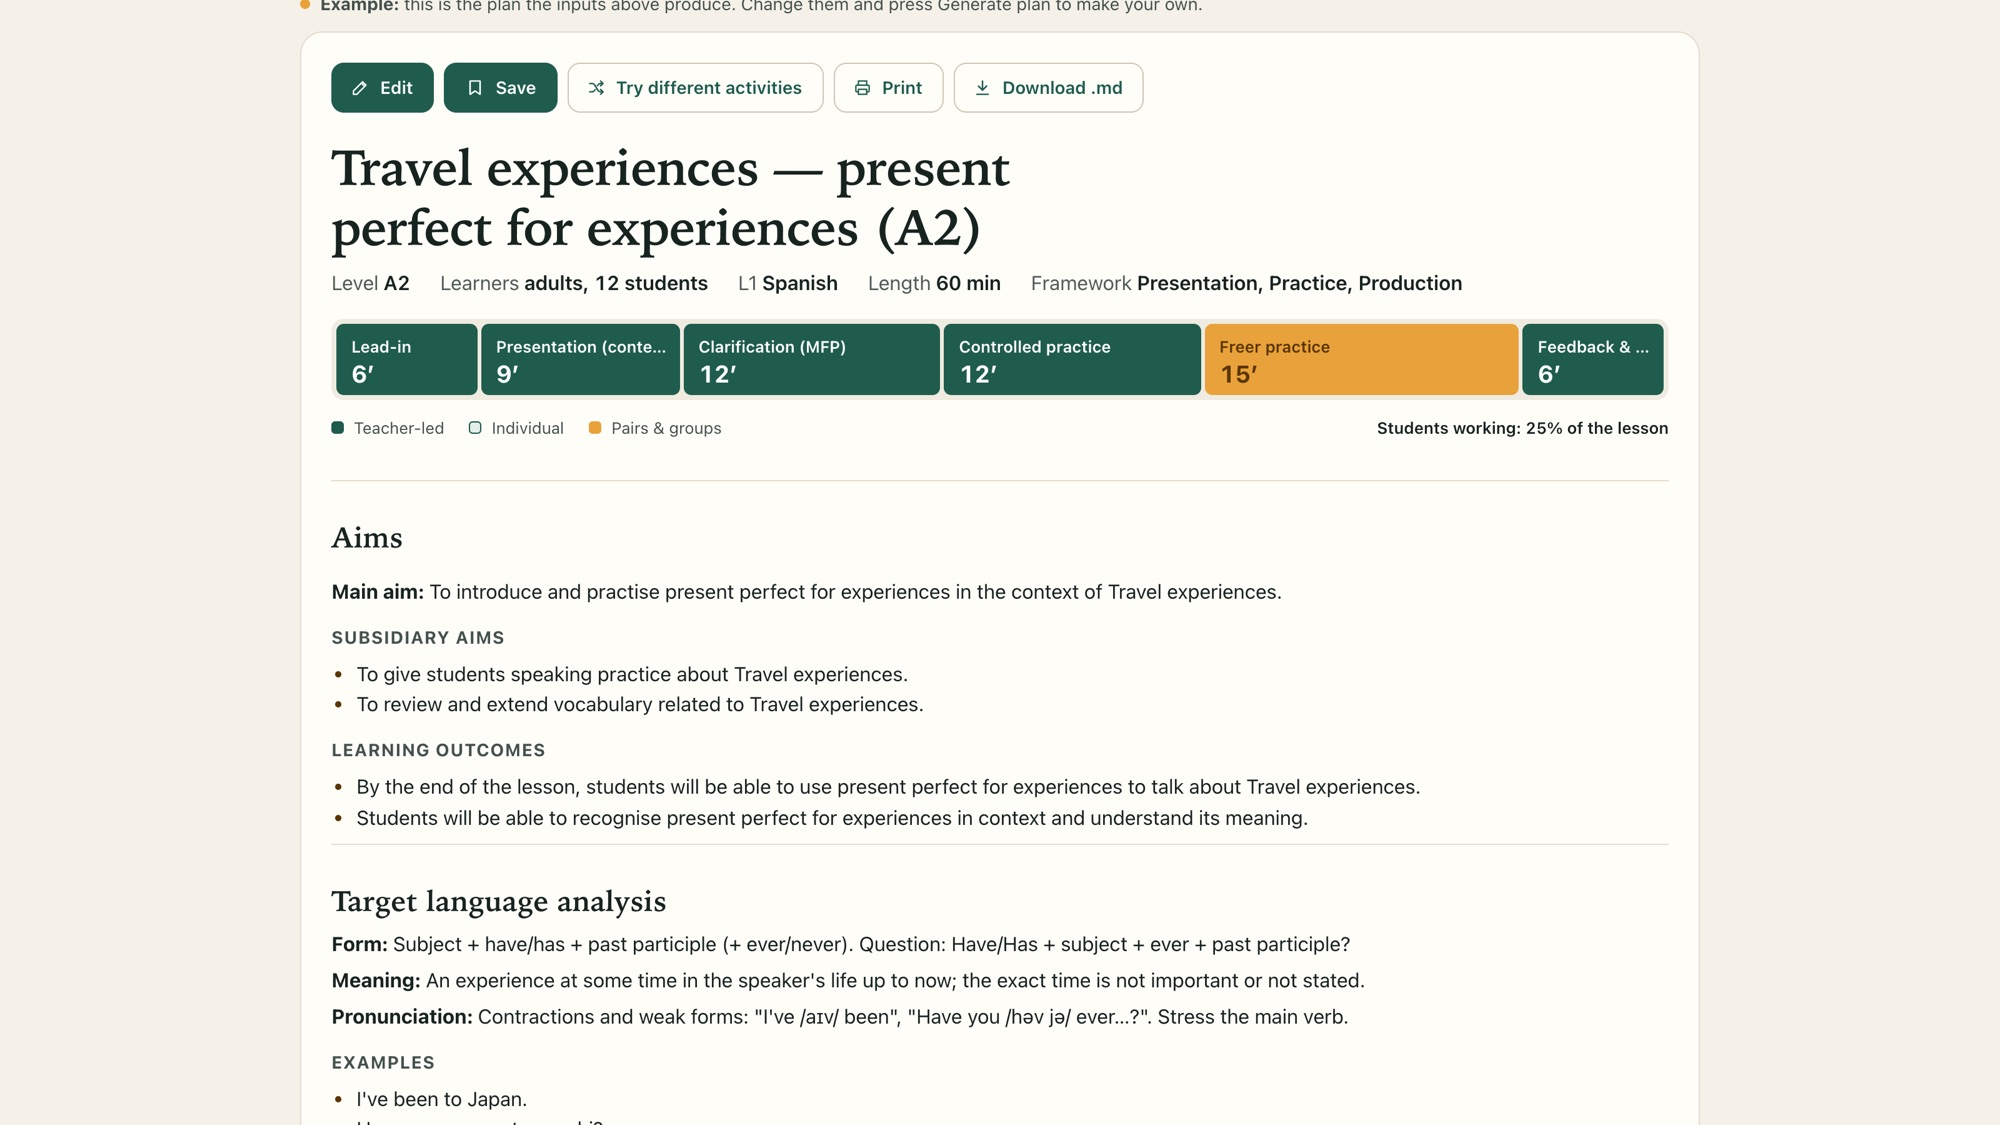
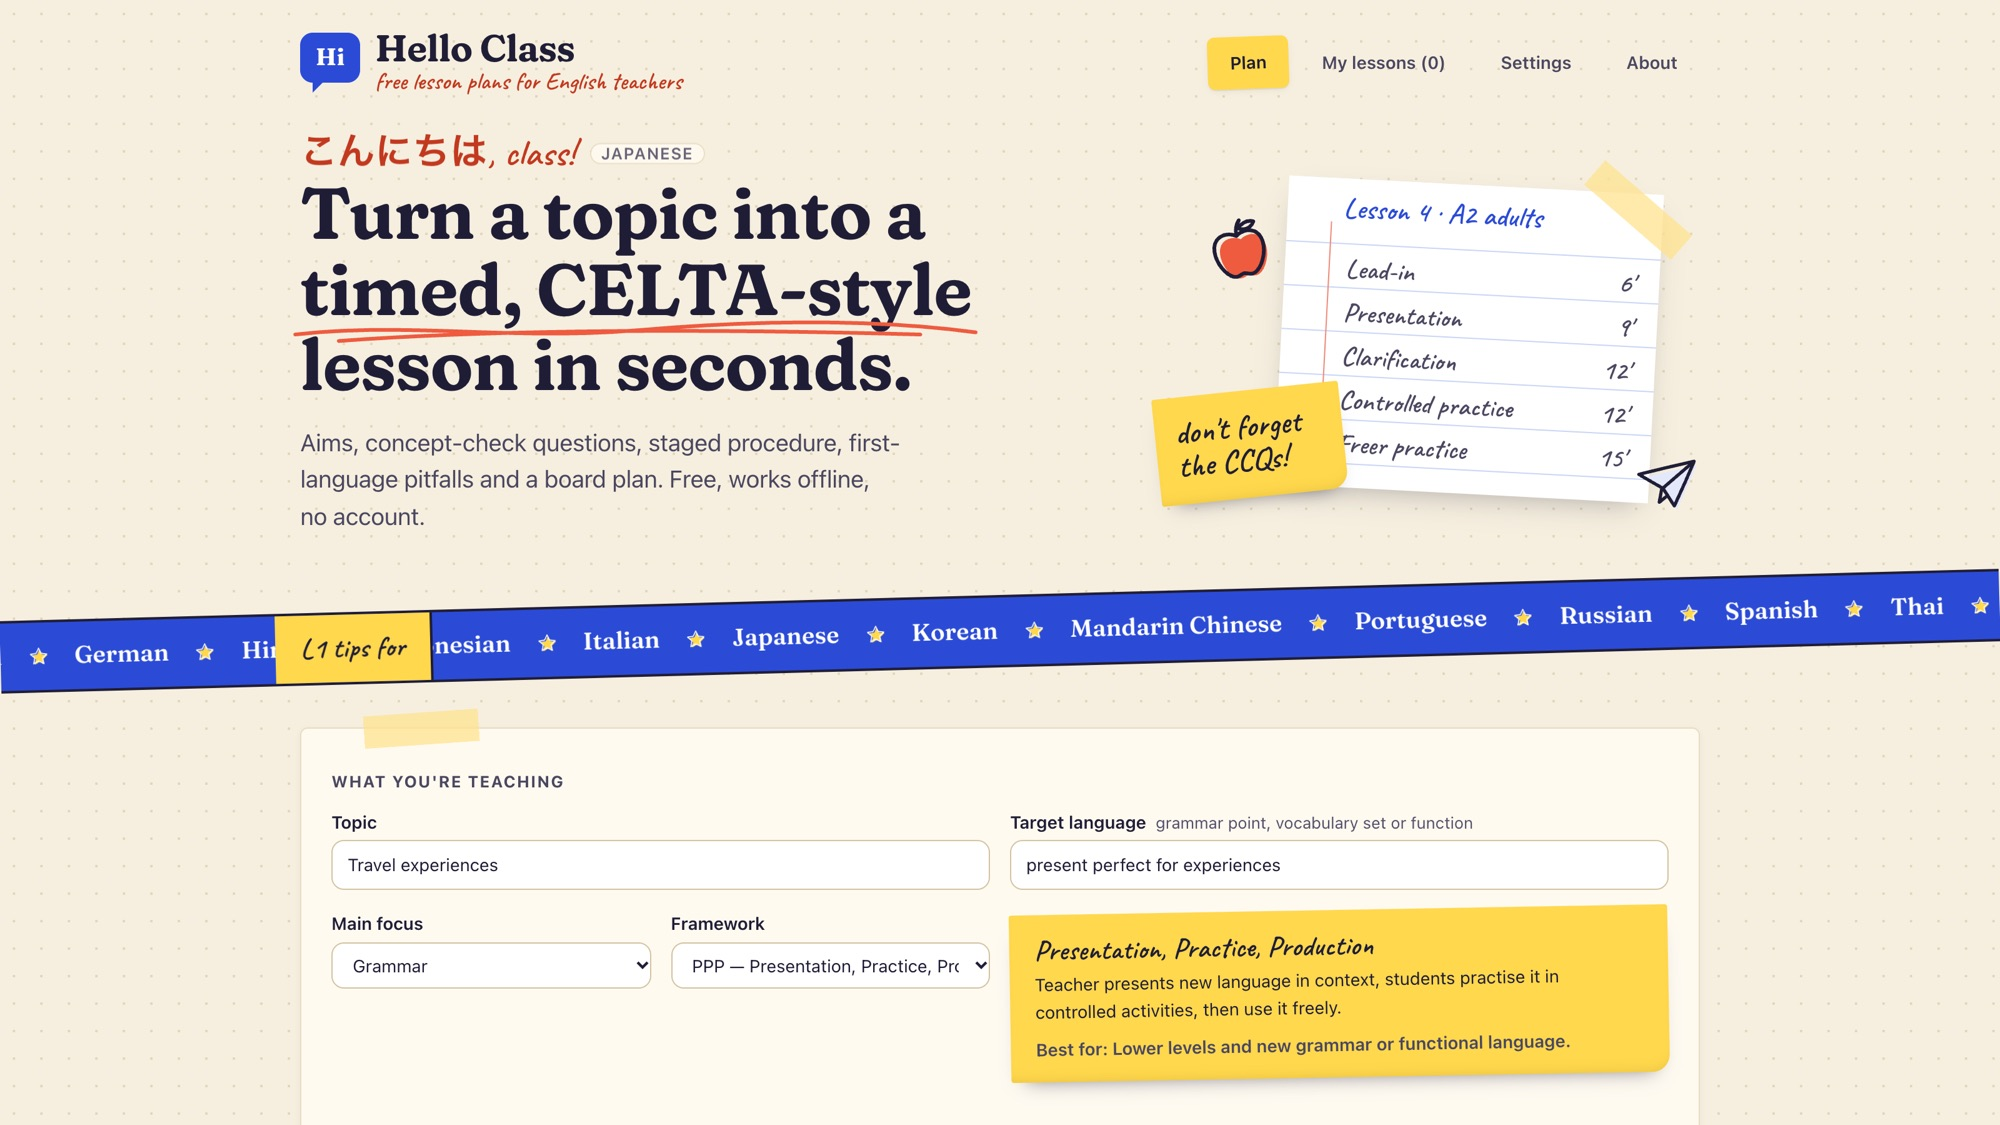
Rename ESL Lesson Planner to Hello Class with its new desk-style screenshot

diff --git a/index.html b/index.html
@@ -763,17 +763,17 @@
         </article>
 
         <article class="work">
-          <a class="shot" data-clip data-cursor="Open" href="https://prestoj01.github.io/teaching-english-planner/" target="_blank" rel="noopener" aria-label="Open ESL Lesson Planner">
-            <img src="images/teaching-english-planner.jpg?v=e6458202" alt="A generated A2 lesson plan on the present perfect, with a timeline of six timed stages, aims and language analysis" width="2000" height="1125" loading="lazy" />
+          <a class="shot" data-clip data-cursor="Open" href="https://prestoj01.github.io/teaching-english-planner/" target="_blank" rel="noopener" aria-label="Open Hello Class">
+            <img src="images/teaching-english-planner.jpg?v=9d109cff" alt="Hello Class home page laid out like a teacher's desk, with a handwritten lesson card, a sticky note and a scrolling band of learners' languages" width="2000" height="1125" loading="lazy" />
           </a>
           <div class="work-text" data-reveal>
-            <h3 class="project-name">ESL Lesson Planner</h3>
+            <h3 class="project-name">Hello Class</h3>
             <div class="project-kind mono">Personal project · Fall 2026</div>
             <p class="project-desc">
-              Generates complete, editable CELTA-style lesson plans for English teachers from a topic, CEFR level,
-              and the learners' first language, with a timeline showing how the minutes are spent. Plans come
-              from an offline template engine or, optionally, Claude with the teacher's own API key, both
-              validated against one shared schema.
+              A free lesson planner for English teachers, laid out like a teacher's desk. Enter a topic, CEFR
+              level, and the learners' first language to get a complete, editable CELTA-style plan with timed
+              stages, concept-check questions, and tips for that language. Plans come from an offline template
+              engine or, optionally, Claude with the teacher's own API key, both validated against one schema.
             </p>
             <div class="project-stack">React · TypeScript · Zod · Claude API · Vitest · GitHub Pages</div>
             <div class="project-links">
